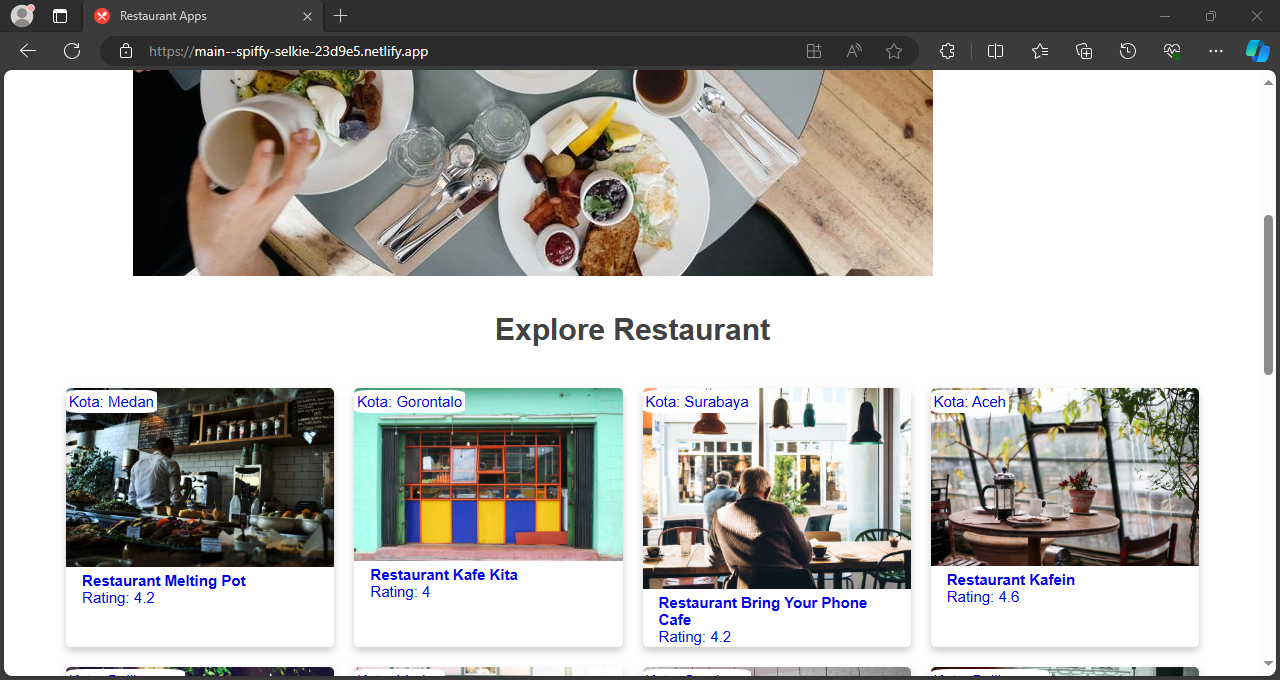
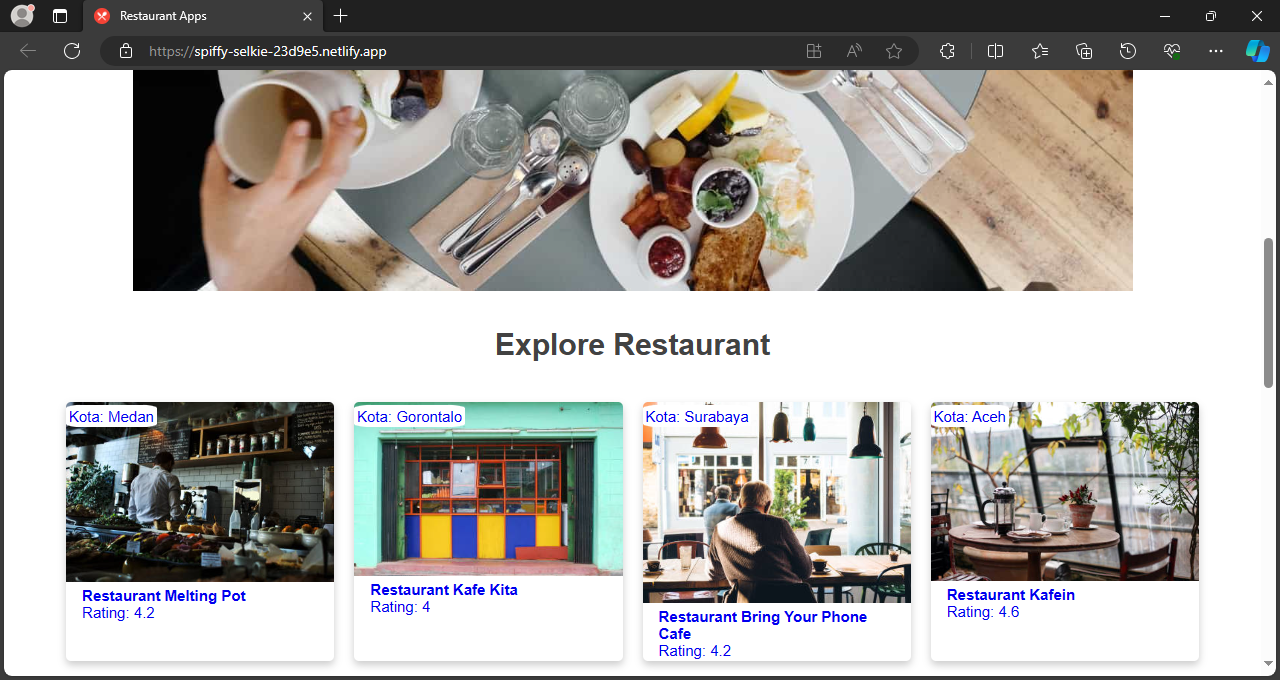
commit0601

diff --git a/js/data.js b/js/data.js
@@ -2,7 +2,7 @@ const getInitialData = [
 
 {
 name: "Resto Mania",
-address: "https://main--spiffy-selkie-23d9e5.netlify.app/",
+address: "https://spiffy-selkie-23d9e5.netlify.app/",
 image: "assets/images/image(1).png",
 feature: "Single-Page App PWA service worker caching,icon Add to Home Screen,webpack,Mobile First Approach Responsive,Aksesibilitas,JavaScript Clean Code,Automation Testing jest github action,end to end test codeceptjs,Image Optimization [sharp. ImageminWebpackPlugin. lazy loading],bundle analyzer (dev mode only),Code Splitting splitChunks"
 },
